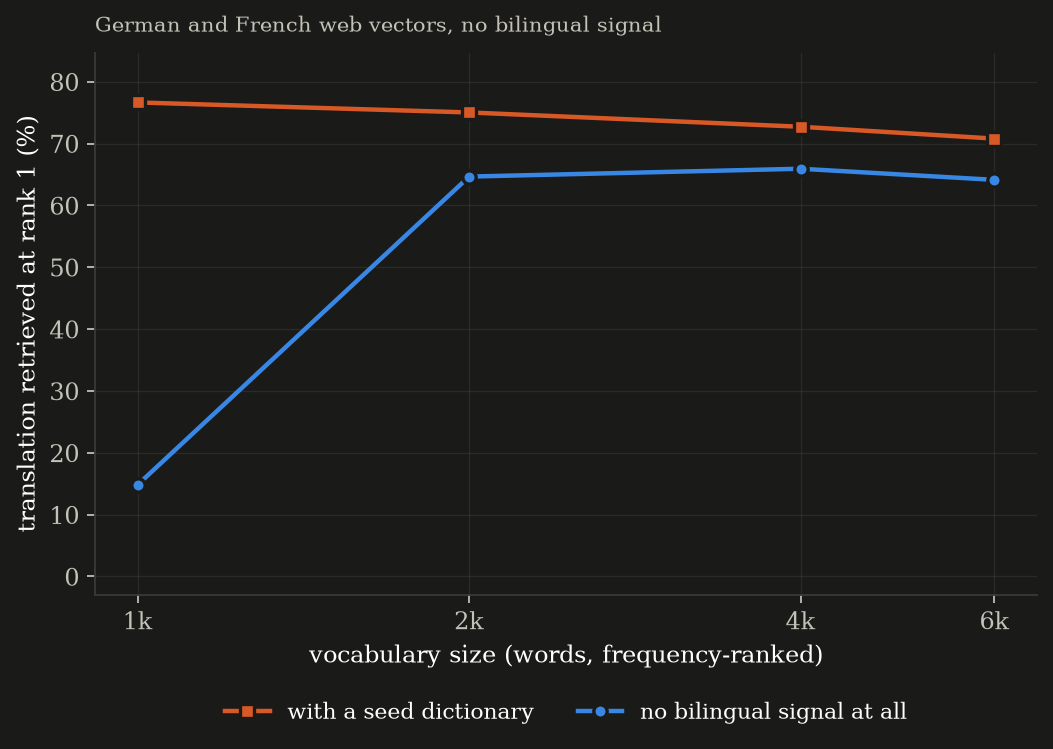
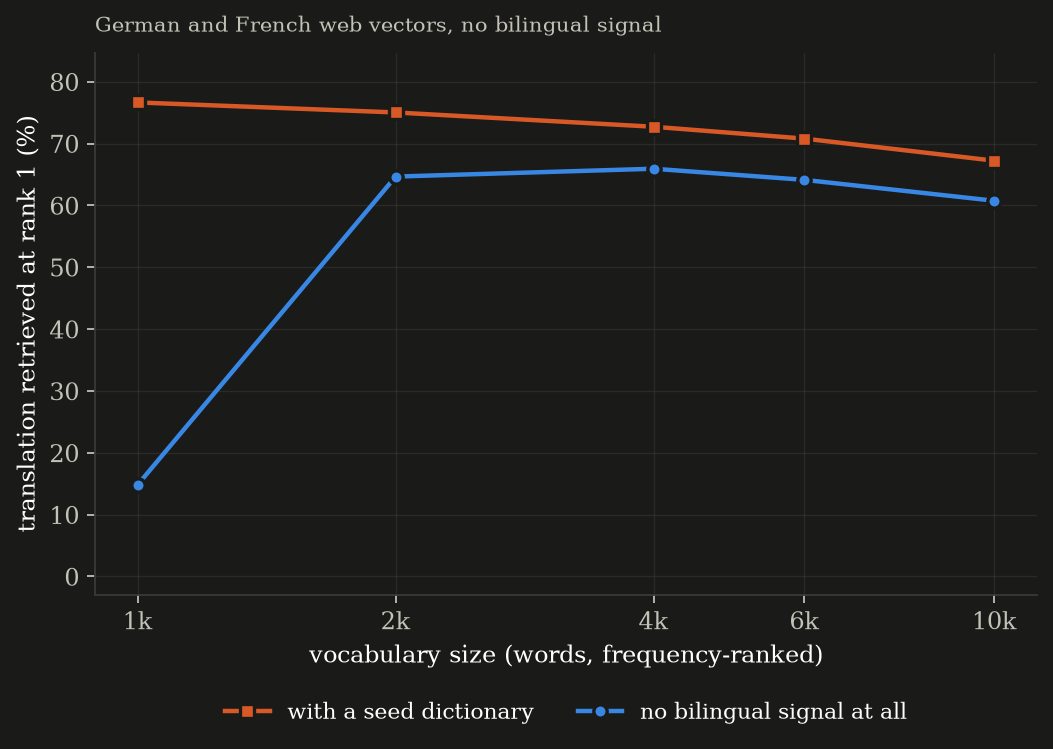
post: correct the vocabulary-threshold framing and tighten numbers
Separate the two failure causes properly: the lowercased-lemma vector bug,
which produced the original false negative, and the genuine vocabulary-size
threshold between one and two thousand words. Add the German-German control
at two vocabulary sizes, which shows corpus size and vocabulary size are
independent constraints.

Claude-Session: https://claude.ai/code/session_019n5GqCHASmpEim2xkpnqHU

diff --git a/docs/blog/posts/aligning-two-languages-without-a-dictionary.md b/docs/blog/posts/aligning-two-languages-without-a-dictionary.md
@@ -193,10 +193,9 @@ either locks on or it produces noise.
 
 ## The variable that decided it
 
-My first run of this experiment used a 2,000-word vocabulary and concluded,
-confidently and wrongly, that none of it worked. Vocabulary size is not a
-tuning knob here. It is the difference between a total failure and a working
-dictionary.
+Vocabulary size is not a tuning knob here. Below a threshold the search has
+nothing to lock onto, above it the thing works, and the threshold is sharp
+enough to cross in a single step.
 
 ![unsupervised accuracy against vocabulary size](../../assets/wordalign-vocab-light.png#only-light)
 ![unsupervised accuracy against vocabulary size](../../assets/wordalign-vocab-dark.png#only-dark)
@@ -207,6 +206,12 @@ gap closes to ten points. By four thousand it is under seven, and at the
 twenty thousand of the headline result it is 2.3. One extra thousand words is
 the difference between a broken method and a working one.
 
+The reason is that the rotation has to be pinned down by the shape of the
+cloud, and a thousand points in 300 dimensions barely constrain it. Every
+additional word is another constraint on the same 300×300 orthogonal matrix.
+Below the threshold there are too many equally good answers to choose
+between; above it, the right one stands out.
+
 The gap is the thing to watch, not either curve on its own. Both drift
 downward as the vocabulary grows, for the boring reason that a bigger
 vocabulary means more wrong answers to be distracted by; the supervised curve
@@ -214,28 +219,23 @@ is measuring that effect alone, since its rotation was handed to it. The
 unsupervised curve is measuring that *plus* whether the search found the
 rotation at all. Where the two run together, the search has succeeded.
 
-The reason is that the rotation has to be pinned down by the shape of the
-cloud, and a thousand points in 300 dimensions barely constrain anything.
-Every extra word is another constraint on the same 300×300 orthogonal
-matrix. There is a threshold below which the search has too many equally good
-answers to choose between, and above which the right one stands out. For
-German and French it sits somewhere between one and two thousand words.
-
-That also disposes of the natural objection to a null result in this area:
-"did you just not have enough data?" Here the answer was yes, and the fix was
-not more text but *more of the vocabulary you already have*.
+This is worth remembering the next time a null result in this area is
+explained by "not enough data." Here the fix was not more text at all. It was
+more of the vocabulary already sitting in the file.
 
 !!! warning "A bug worth confessing"
     My first spaCy condition looked up vectors by lowercased lemma. German
     capitalises its nouns, so `haus` fetched a rare, badly-estimated vector
     instead of the good one attached to `Haus` — and half the German
-    vocabulary was quietly degraded. Combined with the small vocabulary, it
-    produced a clean, confident, entirely wrong negative result, complete
-    with a plausible mechanistic story about why the languages were too
-    different. The numbers above come from the corrected pipeline. This is
-    the second scoring bug this experiment produced; the first inverted a
-    permutation and reported that supervised Procrustes couldn't align a
-    point cloud with a rotated copy of itself.
+    vocabulary was quietly degraded. That run produced a clean, confident,
+    entirely wrong negative result, and I had already drafted several
+    paragraphs explaining why German and French were too different for this
+    to work. The numbers here come from the corrected pipeline. It was the
+    second such bug in this experiment; the first inverted a permutation and
+    reported that supervised Procrustes could not align a point cloud with a
+    rotated copy of itself. Both were caught by results that were *too*
+    clean — a method that fails at exactly chance, on a problem where the
+    answer provably exists, is telling you about your code.
 
 ## How alike are the two shapes, actually?
 
@@ -262,10 +262,28 @@ the vectors yourself from the treebanks, and German against French drops to
 corpus size, and every method fails. Notably, aligning German against
 *German*, from two disjoint halves of the same treebank, only reaches
 **r = 0.45**: re-estimating the same geometry from different documents costs
-nearly as much as changing language entirely.
+nearly as much as changing language entirely, and unsupervised alignment on
+that pair fails too — 4.3% against a 60.4% supervised ceiling at 2,000 words,
+and 3.5% against 55.8% at 4,000.
 
-Corpus size and vocabulary size are two separate walls, and small treebanks
-run into both.
+That last comparison matters, because it rules out the easy explanation.
+Doubling the vocabulary rescued German–French on web vectors; it does nothing
+for German–German on treebank vectors. Corpus size and vocabulary size are
+two independent walls, and a small corpus is not a problem you can vocabulary
+your way out of.
+
+How much distortion can the search actually absorb? Rotate real German
+vectors, add increasing noise, and watch:
+
+![where the methods stop working](../../assets/wordalign-cliff-light.png#only-light)
+![where the methods stop working](../../assets/wordalign-cliff-dark.png#only-dark)
+
+Self-learning is untroubled down to r = 0.58 and dead by r = 0.34. Everything
+interesting happens inside that window — and German–French, at 0.52, lands
+squarely in it. Which is the honest reason this had to be settled by running
+the thing rather than by reasoning about a correlation coefficient: the
+calibration puts German and French in exactly the interval where it could
+have gone either way.
 
 ## What parallelism is worth
 
@@ -286,9 +304,10 @@ tested directly.
 
 This is the part I'd most want to argue about.
 
-At 20,000 words, stochastic self-learning gets 49.7% and every
-assignment-based method gets essentially zero. Same vectors, same evaluation,
-same vocabulary. The difference is not the objective — Gromov–Wasserstein's
+Asked for the same strict one-to-one matching over the same 3,000 words,
+stochastic self-learning gets 49.7% and every assignment-based method gets
+essentially zero. Same vectors, same evaluation, same task. The difference is
+not the objective — Gromov–Wasserstein's
 objective is arguably a *better* formalisation of "do these two shapes
 match" than anything self-learning optimises. The difference is what each
 method is allowed to believe on the way.
